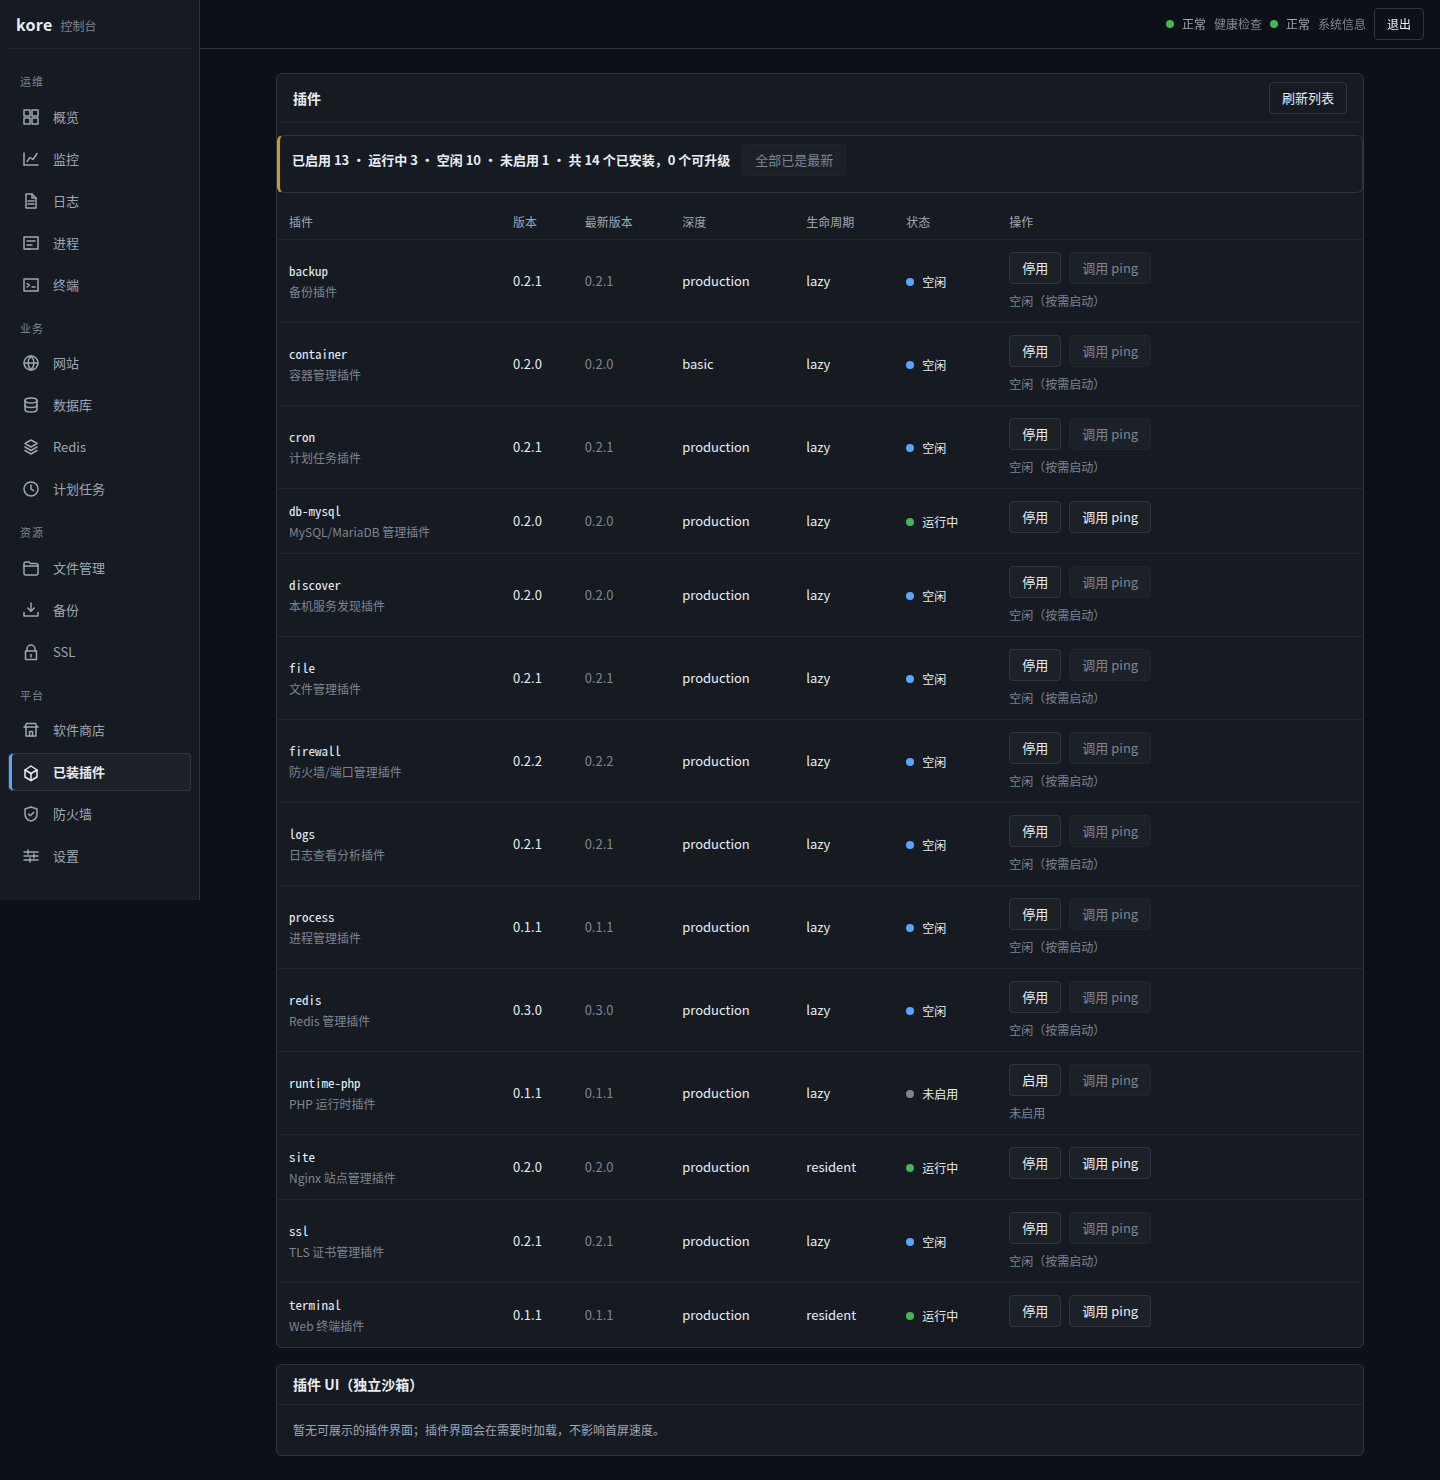
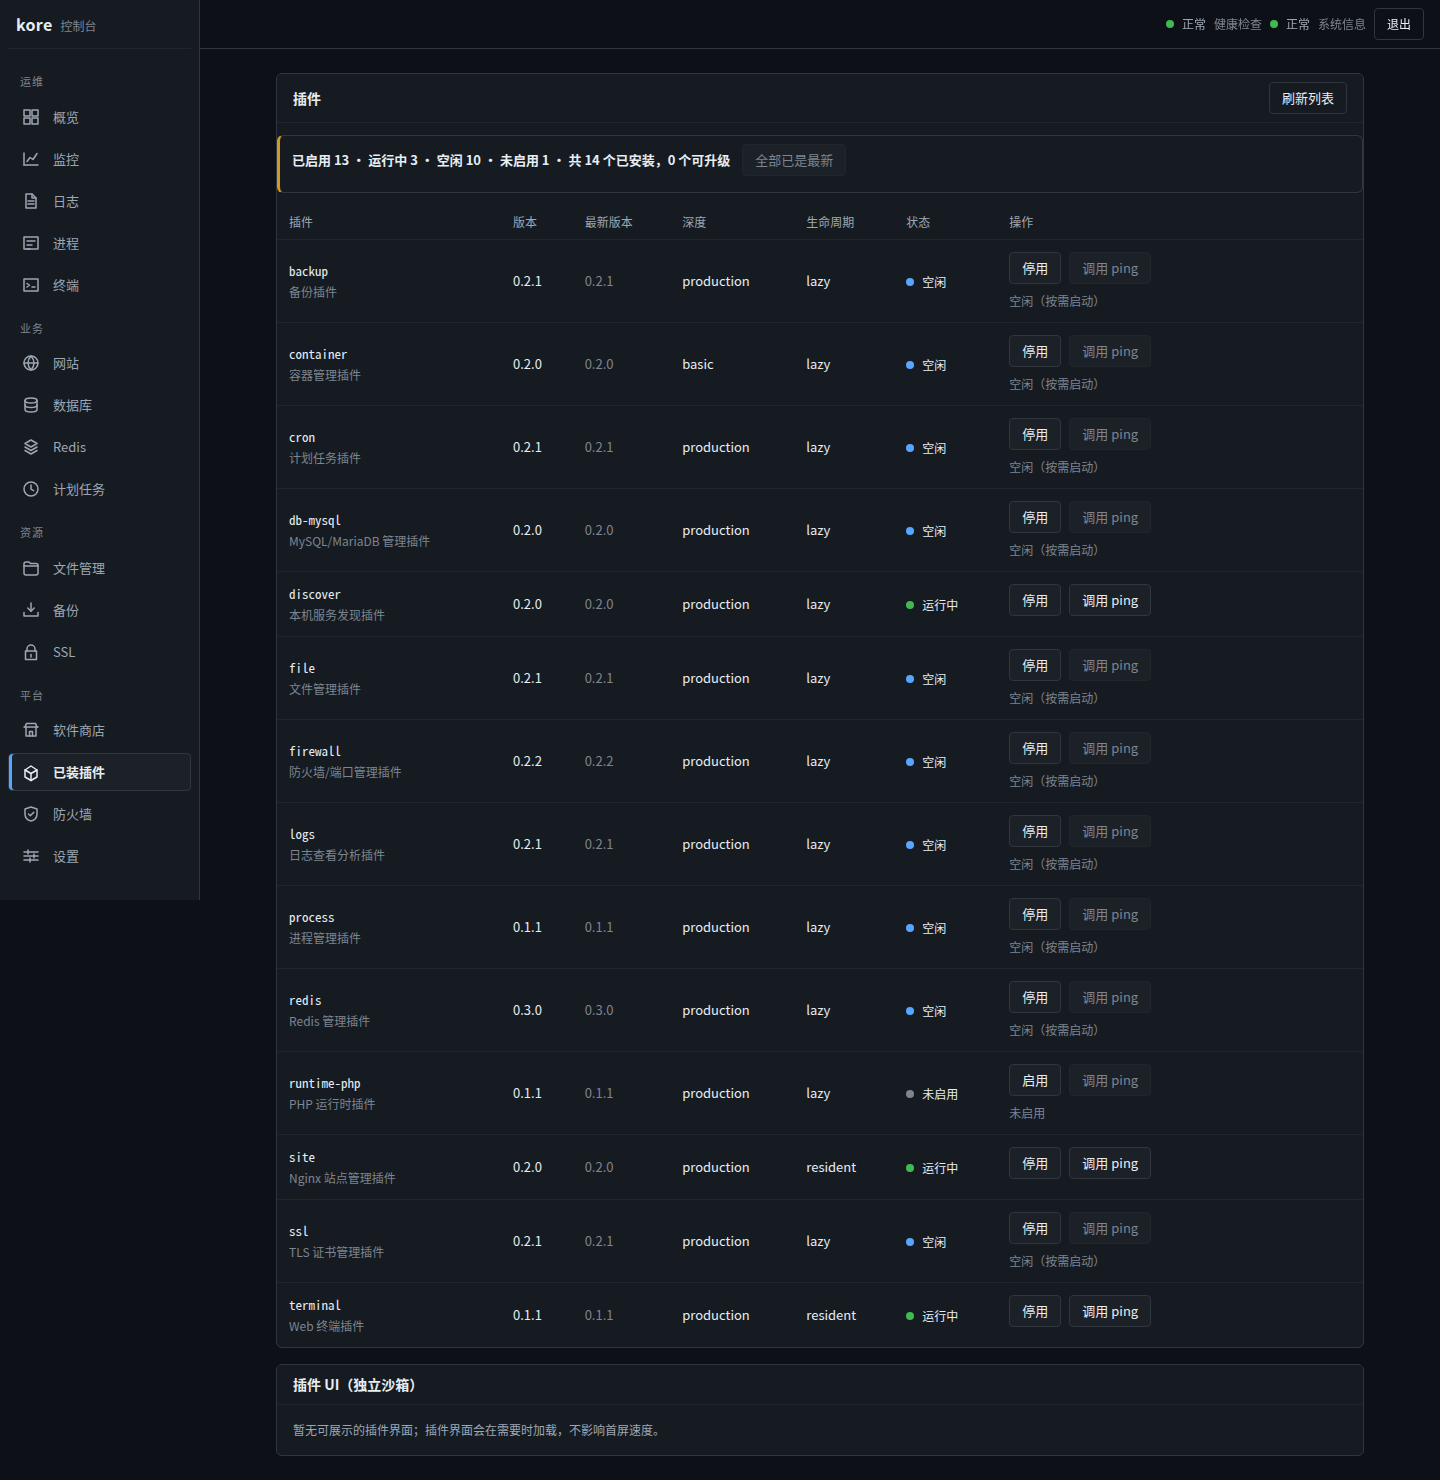
docs(verify): 证据改直连 8787（新二进制已生效，PID 907070）

diff --git a/.agents/verify/ui-semantics.md b/.agents/verify/ui-semantics.md
@@ -3,10 +3,10 @@
 # 三个 UI 语义问题修复与真机验证
 
 ## 0. 环境与口径（先说边界）
-- **真数据来自 8787（当前进程 PID 845380）**：页面里所有 `/api/*` 与 `/-/*` 由 `127.0.0.1:18900` 反代到 `127.0.0.1:8787`（cookie 复用已登录会话），插件状态、db-mysql 实例、cron/ufw 权限错误全部是该进程实时返回。该进程 05:30:40 由兄弟 agent 重启，二进制仍是 05:07 构建的旧产物（`/assets/app.js` sha `fce10c05` ≠ 本轮 `web/dist` `6ff2dea2`），即**修复尚未在 8787 生效**。
-- **为什么不是直接打 8787**：8787 静态资源由 `bin/kored` 编译期内嵌（`web/embed.go`），改 `web/*.js` 必须重建二进制 + 重启才可见。此刻同一工作区 `fix-capability-enforce` 正改 `internal/core/httpapi/*.go` 与 `cmd/kored/*`（`git status` 可见未提交），**现在 `make build` 会把它未完成的改动编进共享二进制并重启主实例**——这是不可接受的风险，所以本轮不重建、不重启，前端用 `make frontend` 的 `web/dist` 由回环代理托管、后端仍打真实例。
-- **本轮未改运行态资产**：`.kore-local.yaml` / `.kore-local-state/` / `bin/kored` 均未改动；8787 的 05:30:40 重启由兄弟 agent 完成，非本 agent。
-- **待办（交给 lead）**：兄弟 agent 落定后重建 `bin/kored` 并重启一次即可生效——`make build` 依赖 `web-dist`，会自动把本批 `web/*.js` 打进二进制；`web/dist` 已是最新产物。
+- **真机实例**：`127.0.0.1:8787`（`./bin/kored serve --config .kore-local.yaml`）。本轮 `make build`（exit 0）后重启一次，新进程 **PID 907070**（05:36:17 `kore ready`），`/assets/app.js` sha `6ff2dea2cf52` == `web/dist/app.js`，即**本批前端修复已在 8787 生效**，全部截图直接来自 8787。
+- **重启口径（G-29）**：只 stop → start 同一个 `bin/kored`，用 `/proc/845380/environ` 原样继承 **101 个环境变量**（其中 `KORE_BACKUP_ALLOW_ROOTS / KORE_BACKUP_DIR / KORE_LOGS_SOURCES / KORE_SSL_CERT_DIR` 4 个 KORE_* 插件配置，值不落盘不打印），**未改** `.kore-local.yaml` / `.kore-local-state/` / 插件目录；重启前 `git status` 确认无未提交的 Go 改动（兄弟 agent 的 `bc15e66` capability 修复已在 HEAD 内）。
+- **为什么先做回环代理、最后才部署**：8787 静态资源编译期内嵌（`web/embed.go`），改 `web/*.js` 必须重建+重启才可见；而兄弟 agent 改 `internal/core/httpapi/*.go` 期间构建会把半成品编进共享二进制。等其提交后才 `make build`，并用回环代理（18900，静态用 `web/dist` + 反代真实 8787 API）先完成功能断言，最后一次性部署到 8787 复拍。
+- **旧进程**：本轮开始时 8787 为 PID 845380（05:30:40 由兄弟 agent 重启、跑的是 05:07 旧二进制，`/assets/app.js` 仍是旧 sha `fce10c05`），本轮重启已取代。
 
 ## 1. 问题 1：横幅与实例卡自相矛盾（P1）
 | 项 | 内容 |
@@ -47,14 +47,14 @@
 ## 5. 双端截图（8 张，sha256 两两去重：0 重复）
 | 文件 | 尺寸 | 字节 | sha12 | 关键内容 |
 | --- | --- | --- | --- | --- |
-| [sem-db-banner-desktop.png](screenshots/sem-db-banner-desktop.png) | 1440x912 | 120611 | 7b8a3705dc32 | 已连接 MySQL 9.7.1（127.0.0.1:3306）+ 可达 9.7.1 |
-| [sem-db-banner-mobile.png](screenshots/sem-db-banner-mobile.png) | 390x844 | 65473 | 7e0e90209878 | 同上，无横向溢出（docW=390） |
-| [sem-plugins-state-desktop.png](screenshots/sem-plugins-state-desktop.png) | 1440x1480 | 196262 | 4e4126c21027 | 14 行全量 + 汇总条 13/3/10/1 |
+| [sem-db-banner-desktop.png](screenshots/sem-db-banner-desktop.png) | 1440x912 | 121166 | 20db128ef023 | 已连接 MySQL 9.7.1（127.0.0.1:3306）+ 可达 9.7.1 |
+| [sem-db-banner-mobile.png](screenshots/sem-db-banner-mobile.png) | 390x844 | 65387 | 7a1ce5b0d093 | 同上，无横向溢出（docW=390） |
+| [sem-plugins-state-desktop.png](screenshots/sem-plugins-state-desktop.png) | 1440x1480 | 196287 | aab2b98323df | 14 行全量 + 汇总条 13/3/10/1 |
 | [sem-plugins-state-mobile.png](screenshots/sem-plugins-state-mobile.png) | 390x844 | 47183 | 03251655a847 | 汇总条 + 蓝点「空闲」 |
 | [sem-tasks-disabled-desktop.png](screenshots/sem-tasks-disabled-desktop.png) | 1440x900 | 100922 | 601a9efe5414 | 黄底说明 + 禁用表单 + 提权链接 |
 | [sem-tasks-disabled-mobile.png](screenshots/sem-tasks-disabled-mobile.png) | 390x844 | 71089 | 906a28210b6c | 同上 |
 | [sem-firewall-disabled-desktop.png](screenshots/sem-firewall-disabled-desktop.png) | 1440x927 | 139498 | c94f7e896fce | 提权指引 + 禁用字段 + 禁用「预览命令」 |
-| [sem-firewall-disabled-mobile.png](screenshots/sem-firewall-disabled-mobile.png) | 390x844 | 82443 | 6da1cca9cf9d | 同上 |
+| [sem-firewall-disabled-mobile.png](screenshots/sem-firewall-disabled-mobile.png) | 390x844 | 82442 | 0da6548fcc2f | 同上 |
 
 ## 6. G-28 产品定位自评
 | 页面 | 解决什么用户问题 | 与宝塔/1Panel 差距 | 状态 |
